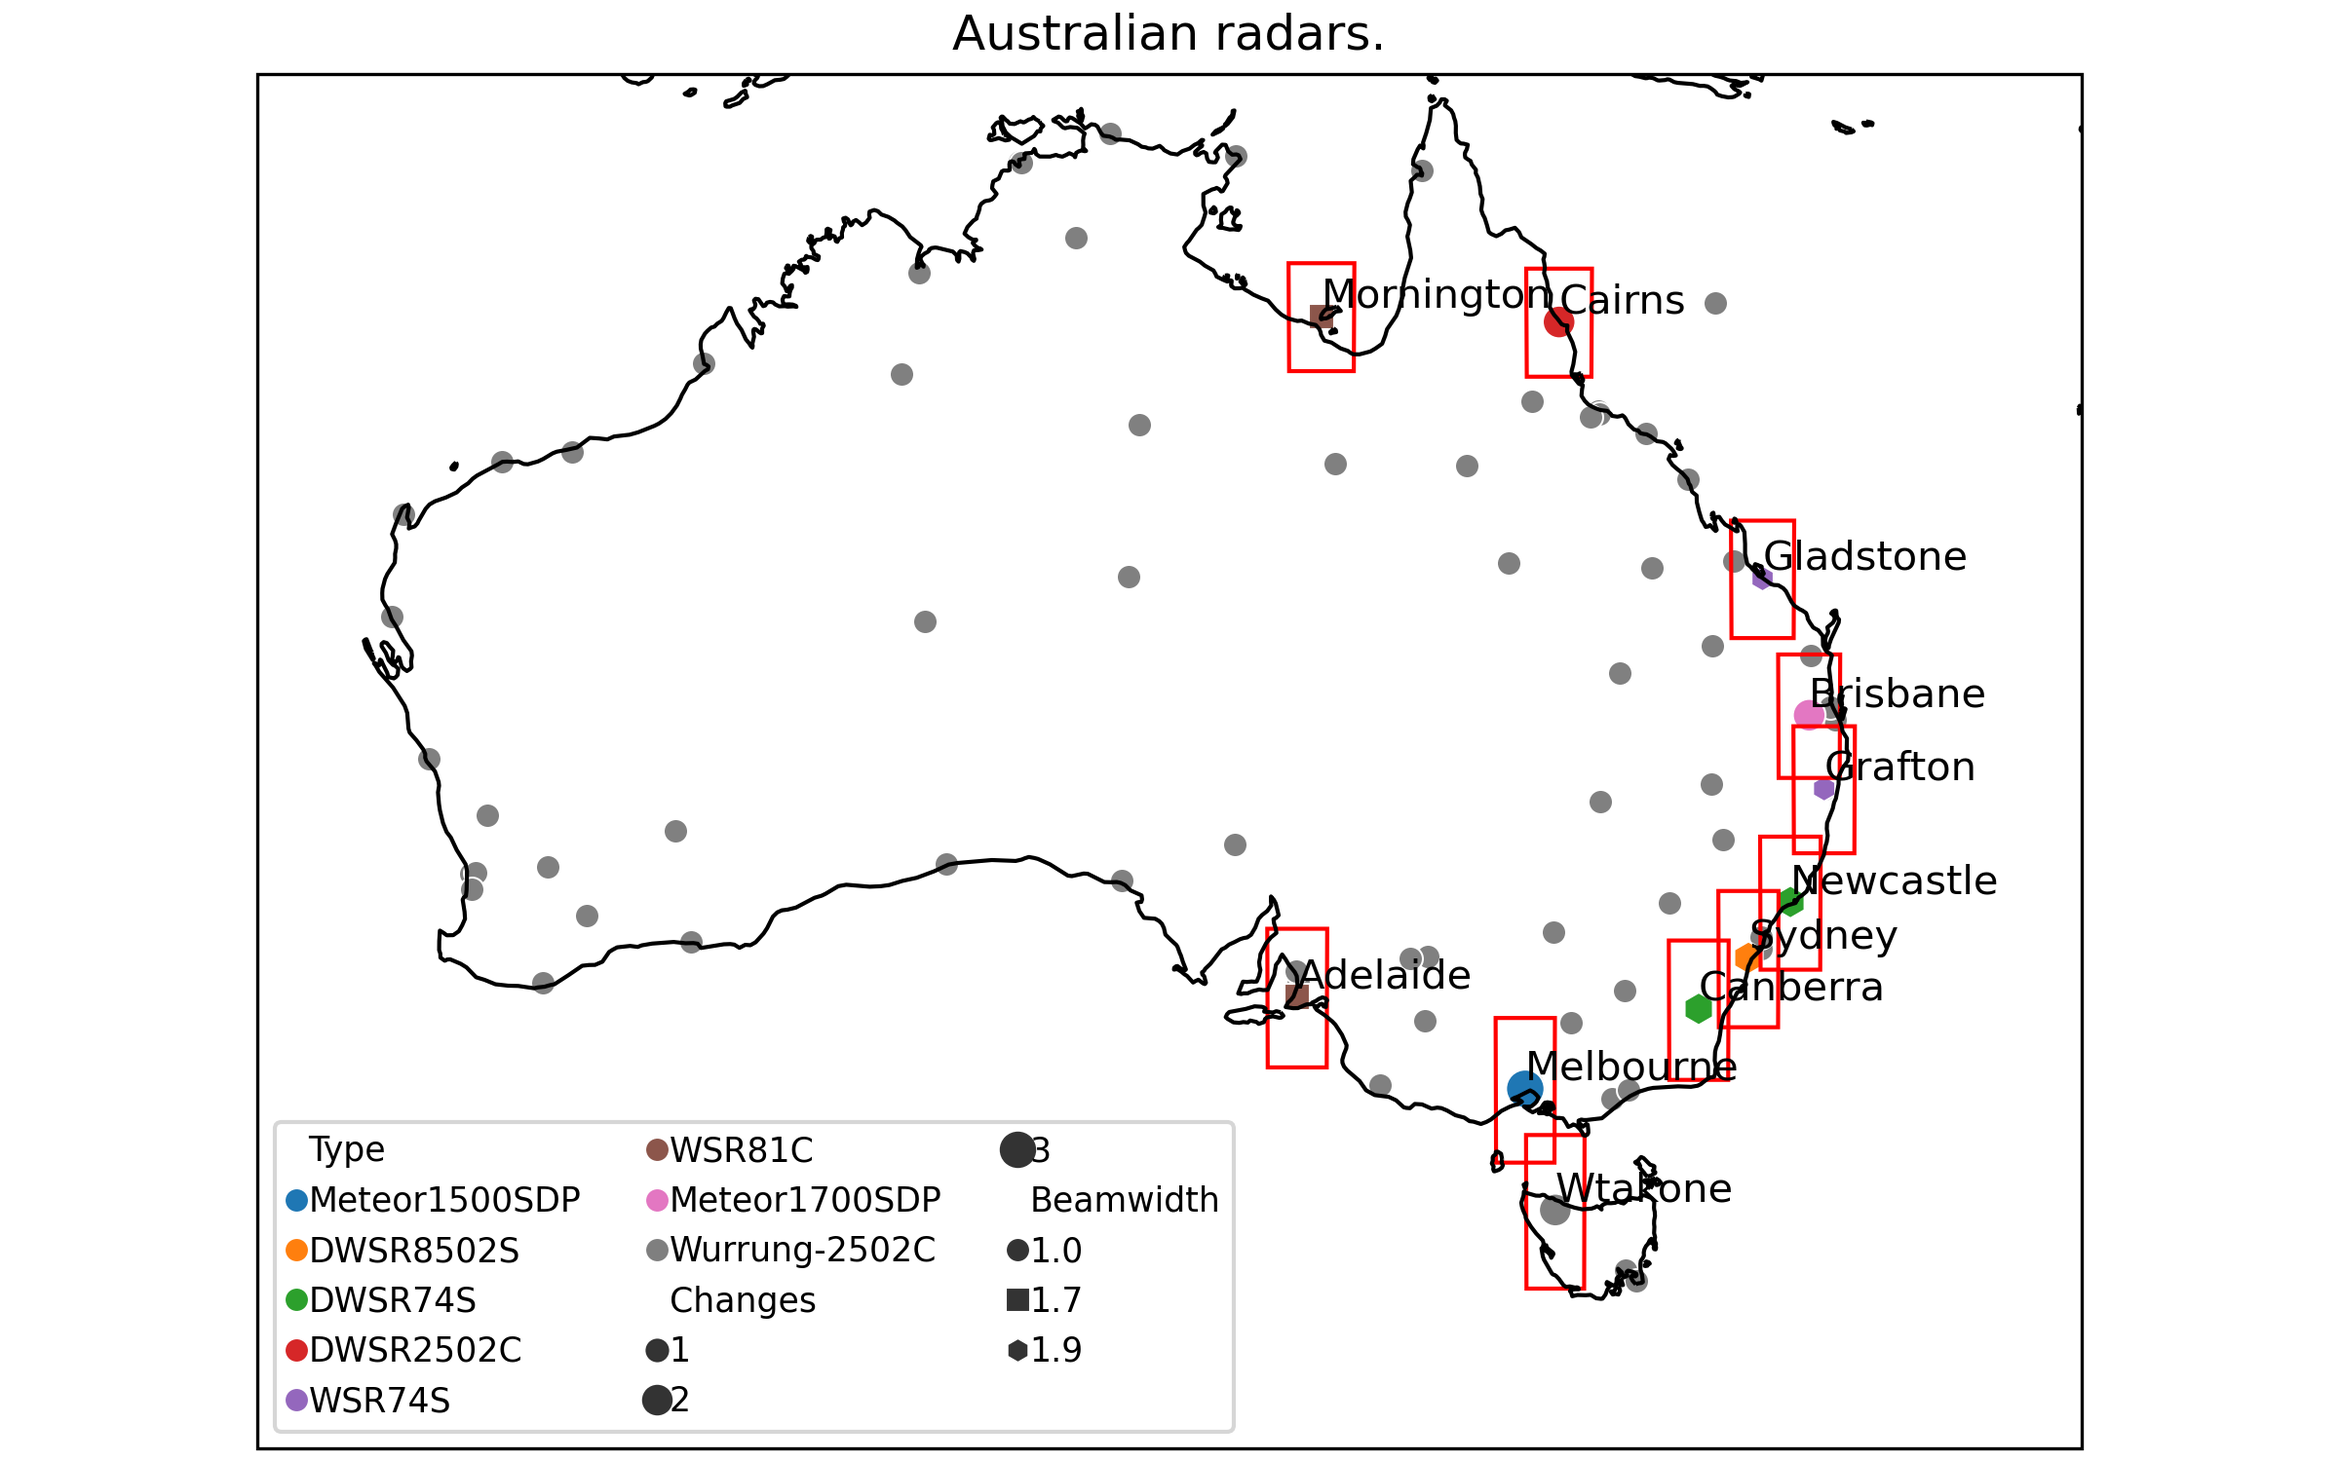
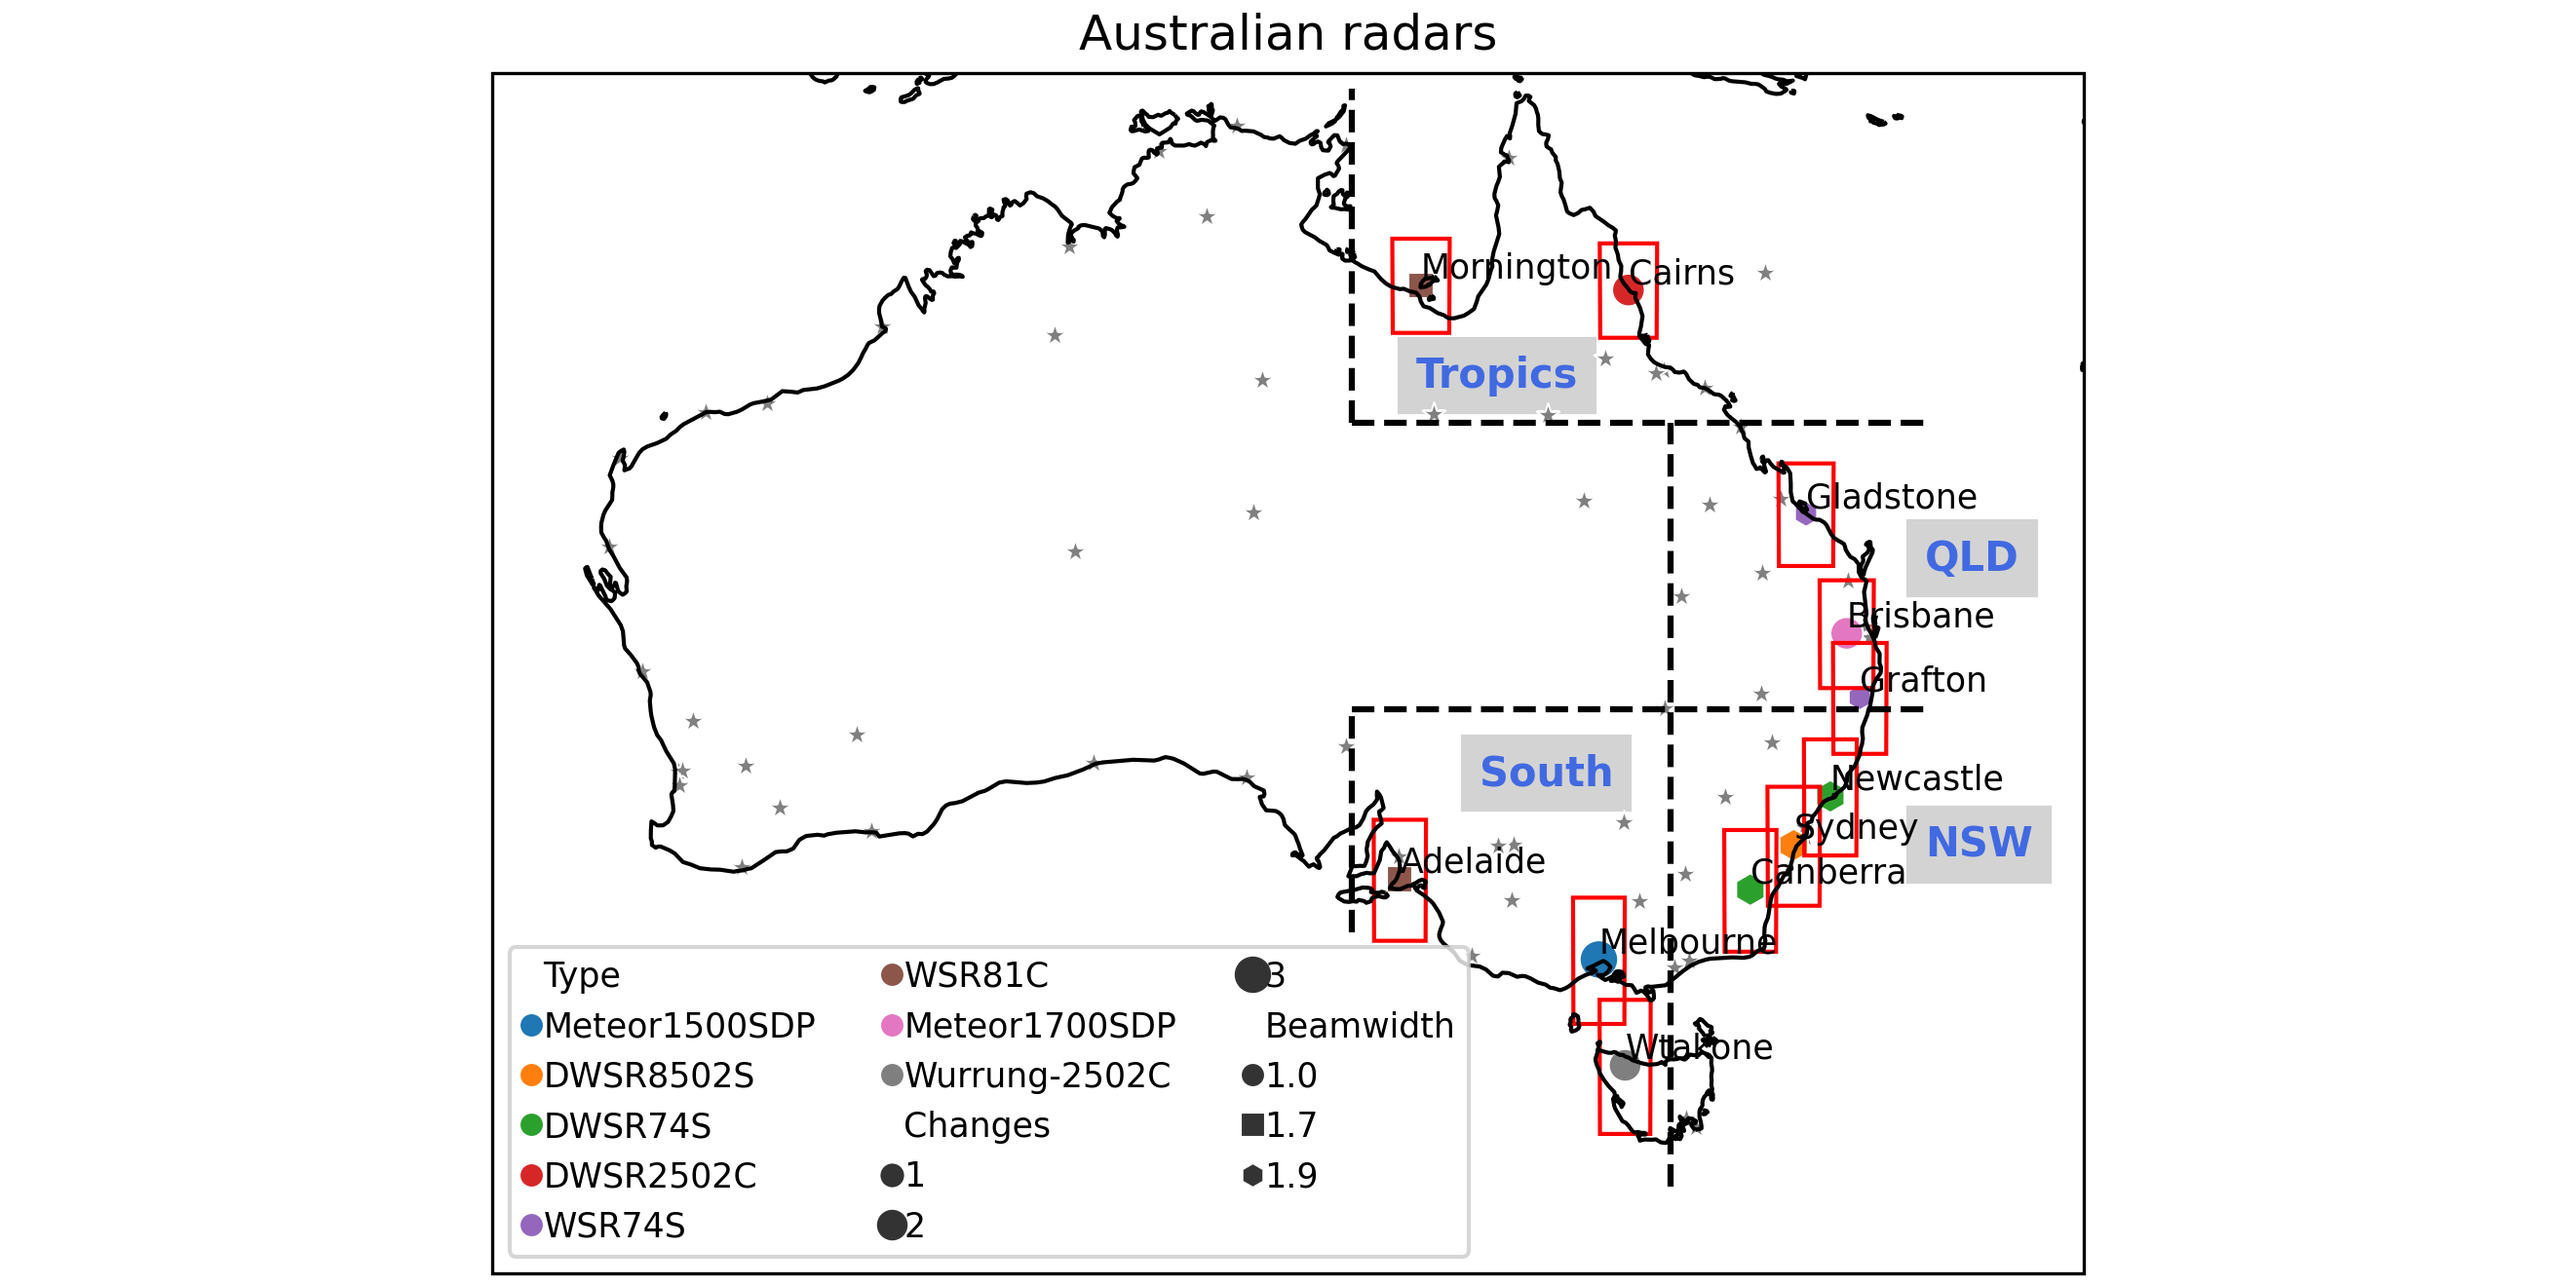
Tweaks to plot_long_radar_stns.py and to submission. holdafter now takes a list.

diff --git a/ausLib.py b/ausLib.py
@@ -933,7 +933,7 @@ def add_std_arguments(parser: argparse.ArgumentParser, dask: bool = True) -> Non
     submit.add_argument('--json_submit_file', type=pathlib.Path,
                         help='JSON file containing default options. These overwritten by command line args')
     submit.add_argument('--setup_script', help='Script to run before running the command', type=pathlib.Path)
-    submit.add_argument('--holdafter', help='Hold job until the held after job has ran.', default='')
+    submit.add_argument('--holdafter', help='Hold job until the held after job(s) have ran.', nargs='+')
     submit.add_argument('--dryrun', help='Dry run only. Nothing will be submitted and script will exit',
                         action='store_true')
     submit.add_argument('--history_file', help='Store command in history file', type=pathlib.Path)
@@ -941,7 +941,7 @@ def add_std_arguments(parser: argparse.ArgumentParser, dask: bool = True) -> Non
 
 
 def gen_pbs_script(cmd_to_run: str,
-                   holdafter: str = '',
+                   holdafter: typing.Optional[list[str]] = None,
                    queue: typing.Optional[str] = None,
                    project: typing.Optional[str] = None,
                    storage: typing.Optional[str] = None,
@@ -954,9 +954,12 @@ def gen_pbs_script(cmd_to_run: str,
                    setup_script: typing.Optional[pathlib.Path] = None,
                    ) -> tuple[list[str], str]:
     # generate the qsub command
+    if holdafter is None:
+        holdafter=[] # set it to empty list.
     # check all values are set.
     args = locals()
     none_vars = []
+
 
     for name, value in args.items():
         if value is None:
@@ -998,7 +1001,7 @@ def gen_pbs_script(cmd_to_run: str,
 #PBS -M {email}
     """
     if len(holdafter) > 0:
-        cmd_str += f'#PBS -W depend=afterok:{holdafter}\n'
+        cmd_str += f'#PBS -W depend=afterok:{" ".join(holdafter)}\n'
         #qsub_cmd.append(f'-W depend=afterok:{holdafter} ')
     cmd_str += fr'''
 export TMPDIR=$PBS_JOBFS
@@ -1037,7 +1040,7 @@ def process_std_arguments(args: argparse.Namespace) -> logging.Logger:
         # generate the command and qsub_cmd
         sub_args = dict(project=args.project, queue=args.queue, storage=args.storage,
                         time=args.time, cpus=args.cpus, memory=args.memory, job_name=args.job_name,
-                        email=args.email, log_base=args.log_base)
+                        email=args.email, log_base=args.log_base,holdafter=args.holdafter)
         history_file = args.history_file
         if args.json_submit_file:
             with open(args.json_submit_file) as f:

diff --git a/plots/plot_long_radar_stns.py b/plots/plot_long_radar_stns.py
@@ -20,7 +20,7 @@ changes = long_radar_data.id.value_counts().rename("Changes")
 lr = lr.join(changes).rename(columns=dict(radar_type='Type',beamwidth='Beamwidth'))
 # plto all radars as tiny dots!
 all_radar = all_radar_data.groupby('id').tail(1)
-sns.scatterplot(data=all_radar, x='site_lon', y='site_lat', ax=ax, sizes=5, legend=False, color='grey')
+sns.scatterplot(data=all_radar, x='site_lon', y='site_lat', ax=ax, sizes=8, marker='*',legend=False, color='grey')
 sns.scatterplot(data=lr, x='site_lon', y='site_lat', hue='Type', style='Beamwidth',
                 ax=ax, sizes=(40, 90), size='Changes', markers=['o', 's', 'h'], legend='full')
 ax.legend(ncol=3,fontsize='small',handletextpad=0.1,handlelength=0.5)
@@ -30,11 +30,22 @@ ax.legend(ncol=3,fontsize='small',handletextpad=0.1,handlelength=0.5)
 dx=125e3
 for name, row in lr.iterrows():
     n = ausLib.site_names[row.id]
-    ax.text(row.site_lon, row.site_lat, n, va='bottom')
+    ax.text(row.site_lon, row.site_lat, n, va='bottom',size='small')
     albers_projection = ccrs.AlbersEqualArea(central_longitude=row.site_lon, central_latitude=row.site_lat)
     rect_patch=matplotlib.patches.Rectangle((-dx,-dx),2*dx,2*dx,linewidth=1,edgecolor='r',facecolor='none',transform=albers_projection)
     ax.add_patch(rect_patch)
 
-ax.set_title("Australian radars.")
+# add on lines for regions
+text_kwargs=dict(va='center',ha='left',color='royalblue',backgroundcolor='lightgrey',fontweight='bold',zorder=-5)
+ax.hlines(-21,137,155,color='k',linestyle='--')
+ax.hlines(-30,137,155,color='k',linestyle='--')
+ax.vlines(147,-45,-21,color='k',linestyle='--')
+ax.vlines(137,-37,-30,color='k',linestyle='--')
+ax.vlines(137,-21,-10.5,color='k',linestyle='--')
+ax.text(139,-19.5,'Tropics',**text_kwargs)
+ax.text(155,-25.25,'QLD',**text_kwargs)
+ax.text(155,-34.25,'NSW',**text_kwargs)
+ax.text(141,-32,'South',**text_kwargs)
+ax.set_title("Australian radars")
 fig.show()
 commonLib.saveFig(fig)

diff --git a/plots/README.md b/plots/README.md
@@ -5,3 +5,4 @@
 3) plot_hr_day.py -- plots the hourly and day of season distribution of maxima.
 4) plot_mathews_building_max_group.py -- plots seasonal max and grouped seasonal max for max rain at Mathews Blding.
 5) plot_Sydney_sens_study.py -- plots  sensitivity studies for Sydney.
+6) plot_long_radar_stns.py -- plots the locations of the long lasting radar stations
